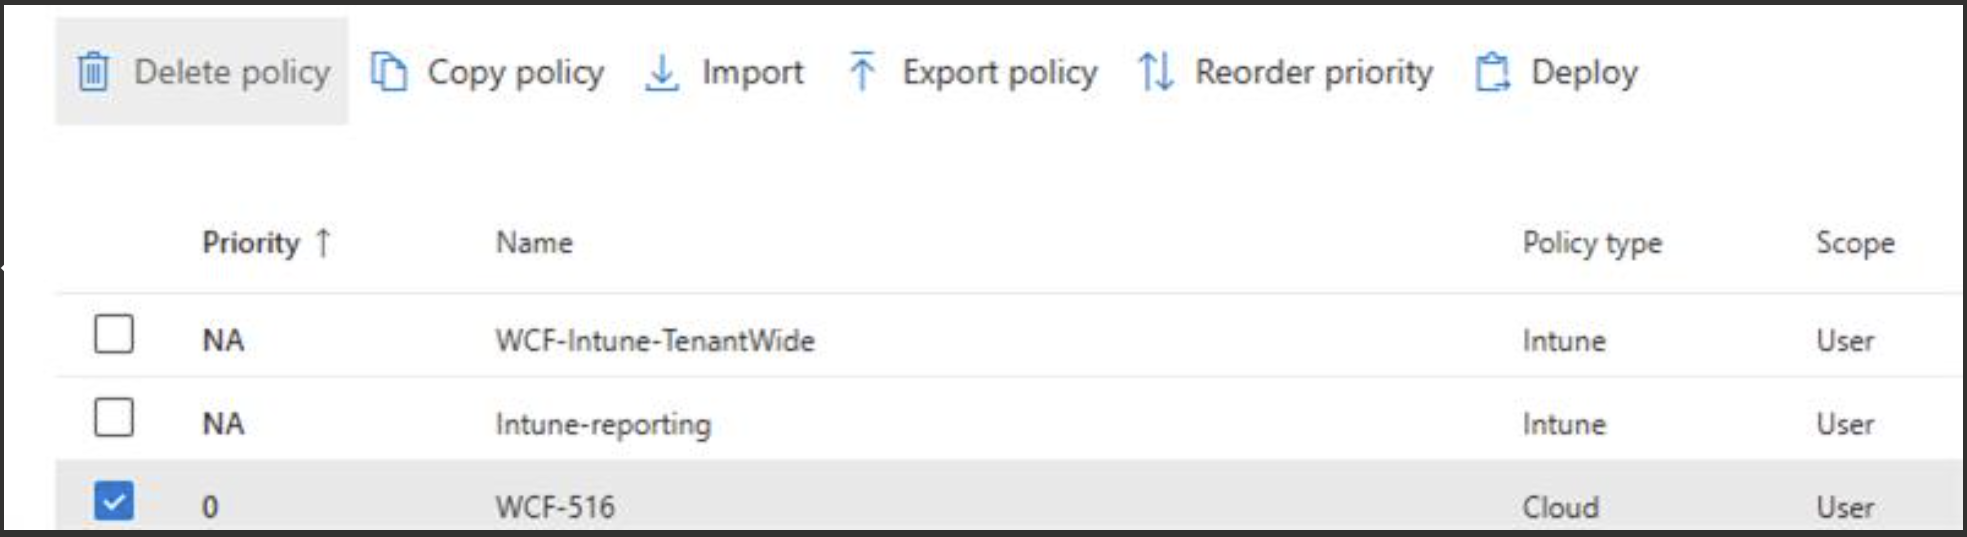
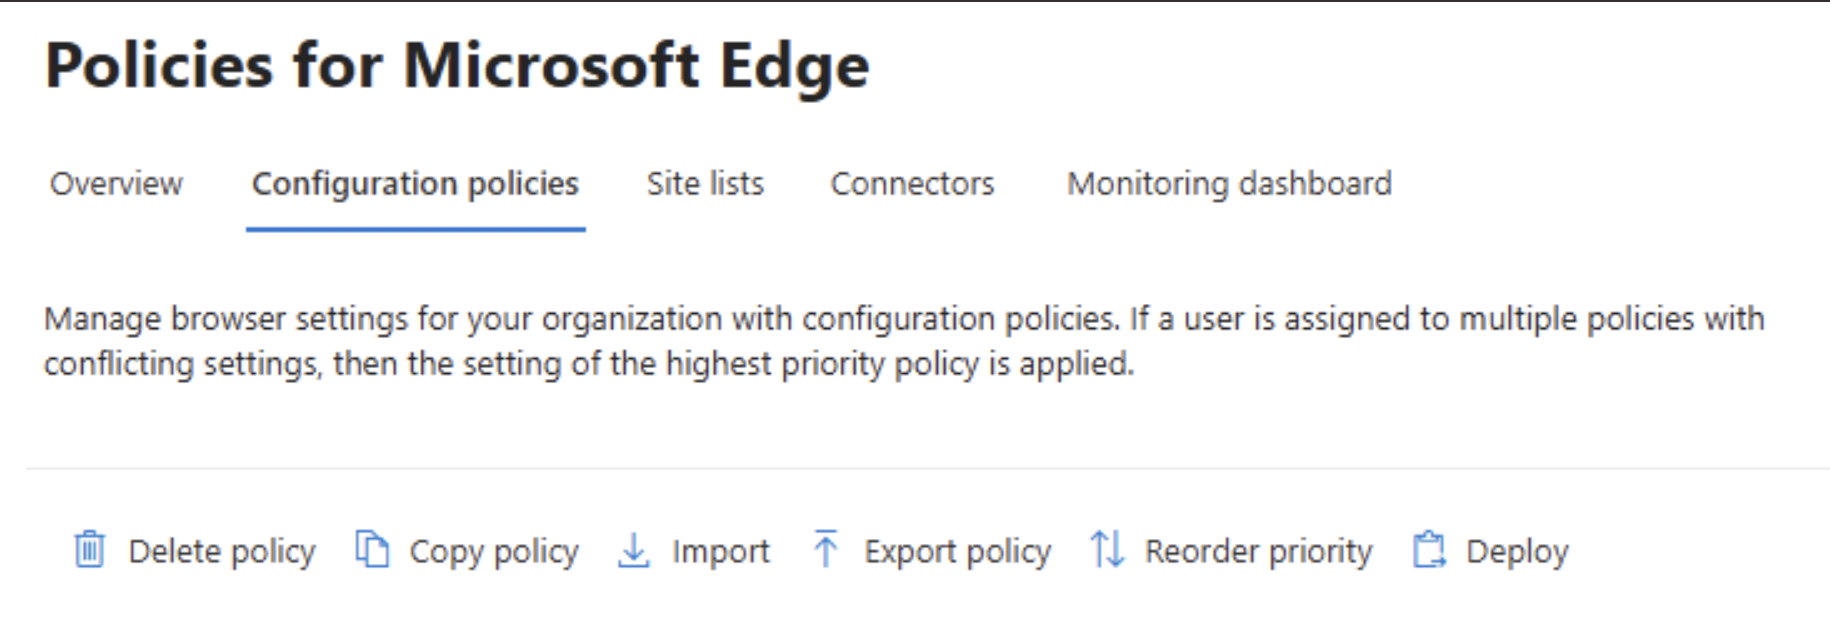
Updated-newimage

diff --git a/edgeenterprise/microsoft-edge-management-service.md b/edgeenterprise/microsoft-edge-management-service.md
@@ -131,27 +131,26 @@ Follow these steps to reorder the priority of a configuration policy:
 > Any policies you apply with Microsoft Edge management service will be overridden if they conflict with an existing Group Policy Object (GPO) or Mobile Device Management (MDM) policy that's set on the device.
 
 
-### Imported/Exported Behaviors
+#### Importing or exporting a configuration policy
 
-#### 1. Cloud Policies in EMX Portal
-
+##### Cloud Policies
 | Action                                                                 | Supported |
 |------------------------------------------------------------------------|-----------|
 | **Can be exported**                                                    | Yes       |
 | **Can be imported*** (via Edge Management Service portal)             | Yes       |
 
-*When importing into EMX, **EMX-specific settings like Org Branding will be removed.**
+*When importing a configuration policy into the Edge management service, any Cloud-specific settings (ie. organization branding) wil be removed.
 
 ---
 
-#### 2. Cloud Policies in Intune
+##### Intune Policies
 
 | Action                                                                                     | Supported |
 |--------------------------------------------------------------------------------------------|-----------|
 | **Cannot be imported directly into the Intune Portal**                                     | No        |
 | **Can be imported into an Intune policy*** (via Edge Management Service portal)           | Yes       |
 
-*When importing back into EMX, **EMX-specific settings like Org Branding will be removed.**
+*When importing a configuration policy back into the Edge management service, any Cloud-specific settings (ie. organization branding) will be removed.
 
  ![screenshot of duo connector1.](media/microsoft-edge-management-service/1.png)
  
